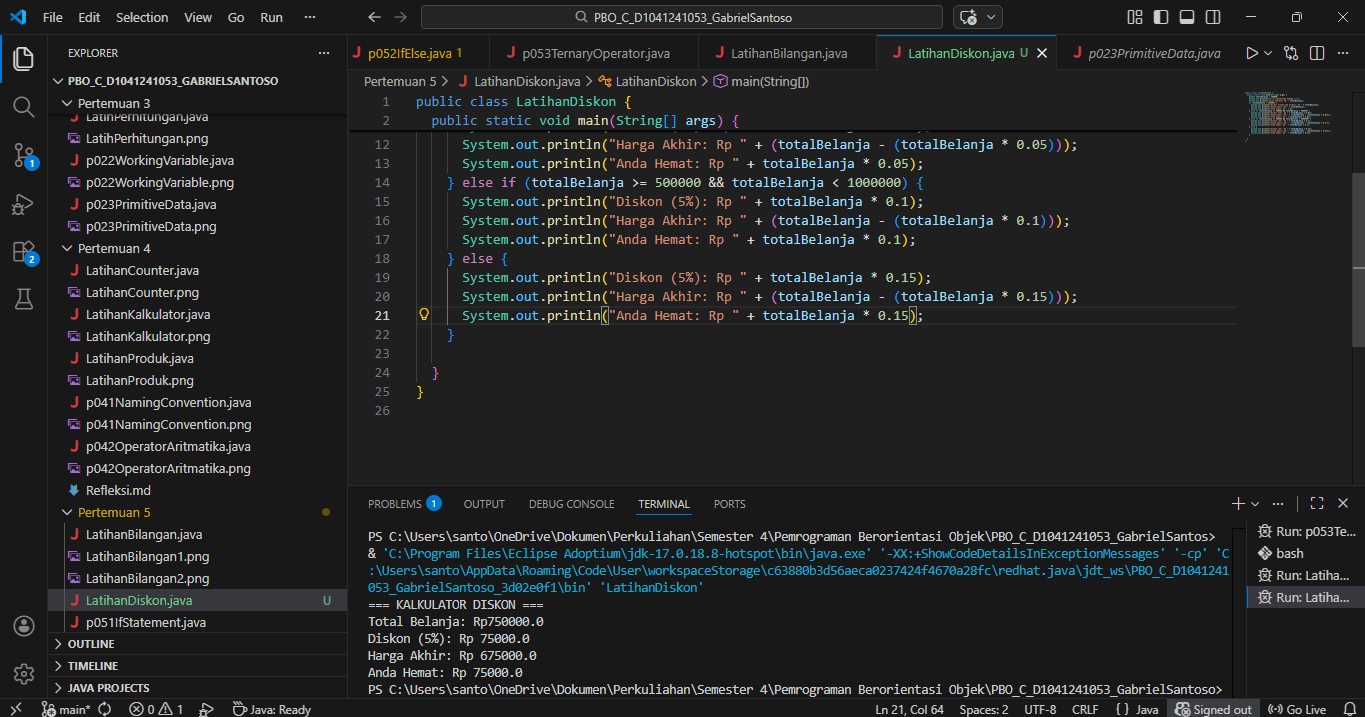
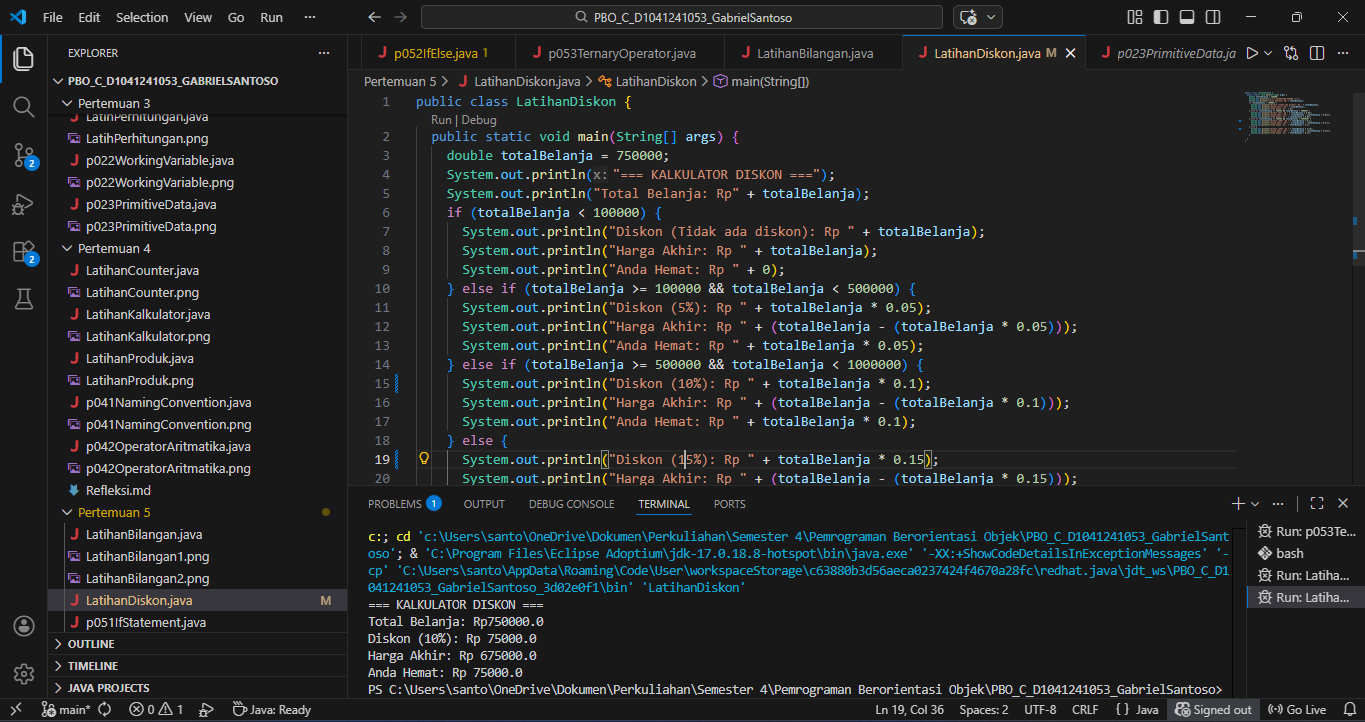
Revisi LatihanDiskon

diff --git a/Pertemuan 5/LatihanDiskon.java b/Pertemuan 5/LatihanDiskon.java
@@ -12,11 +12,11 @@ public class LatihanDiskon {
       System.out.println("Harga Akhir: Rp " + (totalBelanja - (totalBelanja * 0.05)));
       System.out.println("Anda Hemat: Rp " + totalBelanja * 0.05);
     } else if (totalBelanja >= 500000 && totalBelanja < 1000000) {
-      System.out.println("Diskon (5%): Rp " + totalBelanja * 0.1);
+      System.out.println("Diskon (10%): Rp " + totalBelanja * 0.1);
       System.out.println("Harga Akhir: Rp " + (totalBelanja - (totalBelanja * 0.1)));
       System.out.println("Anda Hemat: Rp " + totalBelanja * 0.1);
     } else {
-      System.out.println("Diskon (5%): Rp " + totalBelanja * 0.15);
+      System.out.println("Diskon (15%): Rp " + totalBelanja * 0.15);
       System.out.println("Harga Akhir: Rp " + (totalBelanja - (totalBelanja * 0.15)));
       System.out.println("Anda Hemat: Rp " + totalBelanja * 0.15);
     }
